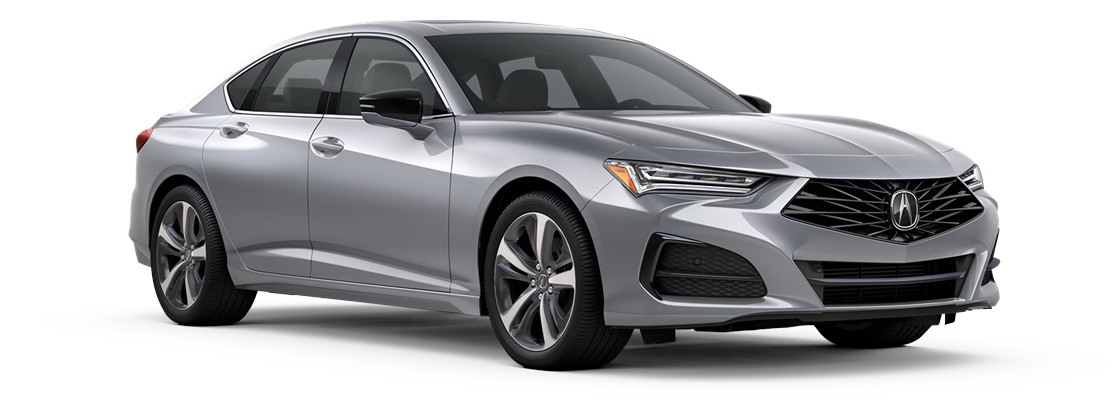
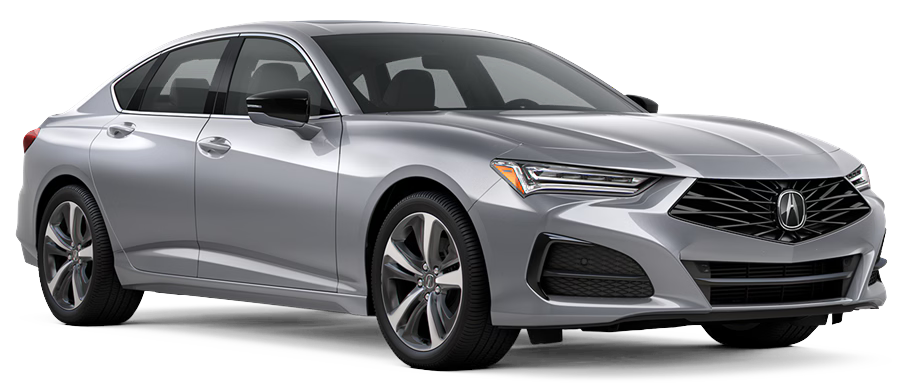
Fix image size

diff --git a/screens/main/saved/SavedScreen.tsx b/screens/main/saved/SavedScreen.tsx
@@ -11,7 +11,13 @@ import { getSavedCars } from "@services/saveServices";
 const SavedScreen: React.FC<SavedScreenProps> = ({ navigation }) => {
   const [savedCars, setSavedCars] = useState<Car[]>([]);
 
-  // TODO: fetch saved cars of the user
+  const getPickupDate = () => {
+    const now = new Date(Date.now());
+    const minDate = new Date("2024-12-01");
+    return now > minDate ? now : minDate;
+  };
+
+  // NOTE: fetch saved cars of the user
   useEffect(() => {
     const unsubscribe = getSavedCars((data) => {
       setSavedCars(data); // Update state with the data from Firebase
@@ -51,7 +57,7 @@ const SavedScreen: React.FC<SavedScreenProps> = ({ navigation }) => {
             <CardCarRent
               key={carData.id}
               carData={carData}
-              pickupDate={new Date(Date.now())}
+              pickupDate={getPickupDate()}
               onPress={() => navigateToCarInfo(carData, new Date(Date.now()))}
             />
           );

diff --git a/components/images/ImageContain.tsx b/components/images/ImageContain.tsx
@@ -7,20 +7,21 @@ type ImageContainProp = {
 const ImageContain = (props: ImageContainProp) => {
   return (
     <View style={styles.container}>
-      <Image style={styles.image} source={props.source} />
+      <Image style={styles.image} source={props.source} resizeMode="contain" />
     </View>
   );
 };
 
 const styles = StyleSheet.create({
   container: {
-    flexDirection: "row",
-    paddingVertical: 10,
+    flex: 1,
+    justifyContent: "center",
+    alignItems: "center",
+    paddingHorizontal: 16,
   },
   image: {
-    flex: 1,
+    height: 150,
     width: "100%",
-    resizeMode: "contain",
   },
 });
 

diff --git a/screens/main/home/RentConfirmationScreen.tsx b/screens/main/home/RentConfirmationScreen.tsx
@@ -60,7 +60,6 @@ const RentConfirmationScreen: React.FC<RentConfirmationScreenProps> = ({
       setTimeout(() => {
         navigation.reset({
           index: 0,
-          // TODO: Change to history screen
           routes: [
             {
               name: "Main",

diff --git a/components/cars/CardCarModel.tsx b/components/cars/CardCarModel.tsx
@@ -34,6 +34,7 @@ const styles = StyleSheet.create({
     flexDirection: "row",
     justifyContent: "center",
     alignItems: "center",
+    paddingTop: 4,
     gap: 10,
   },
   logo: {
